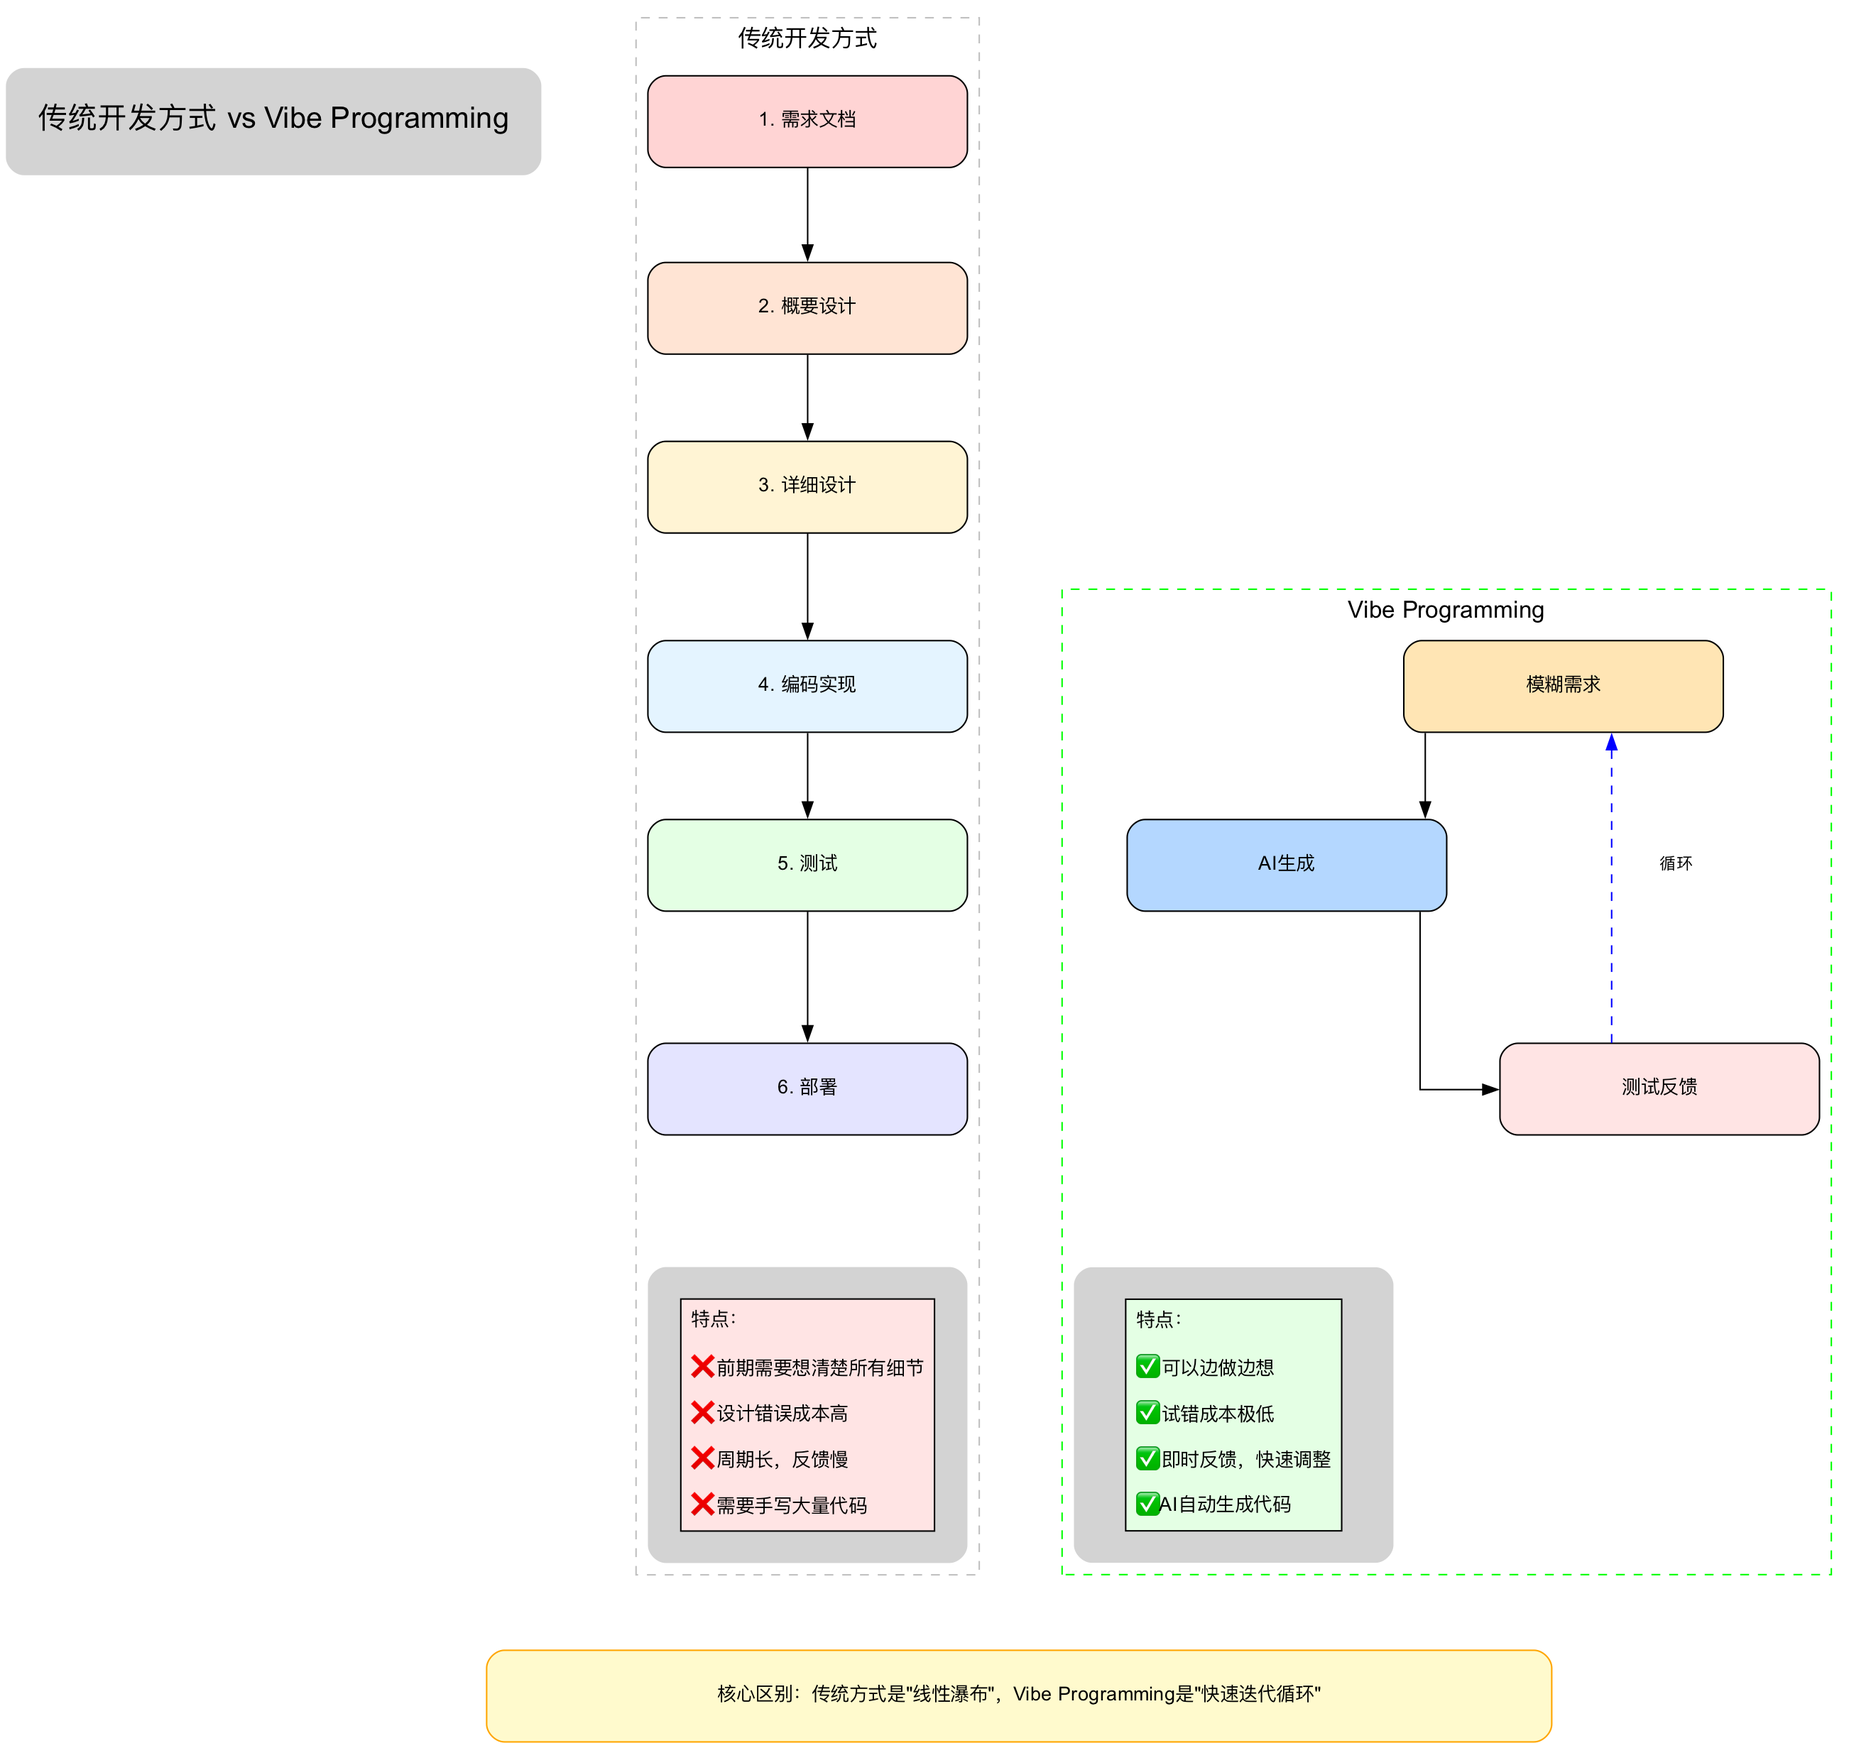
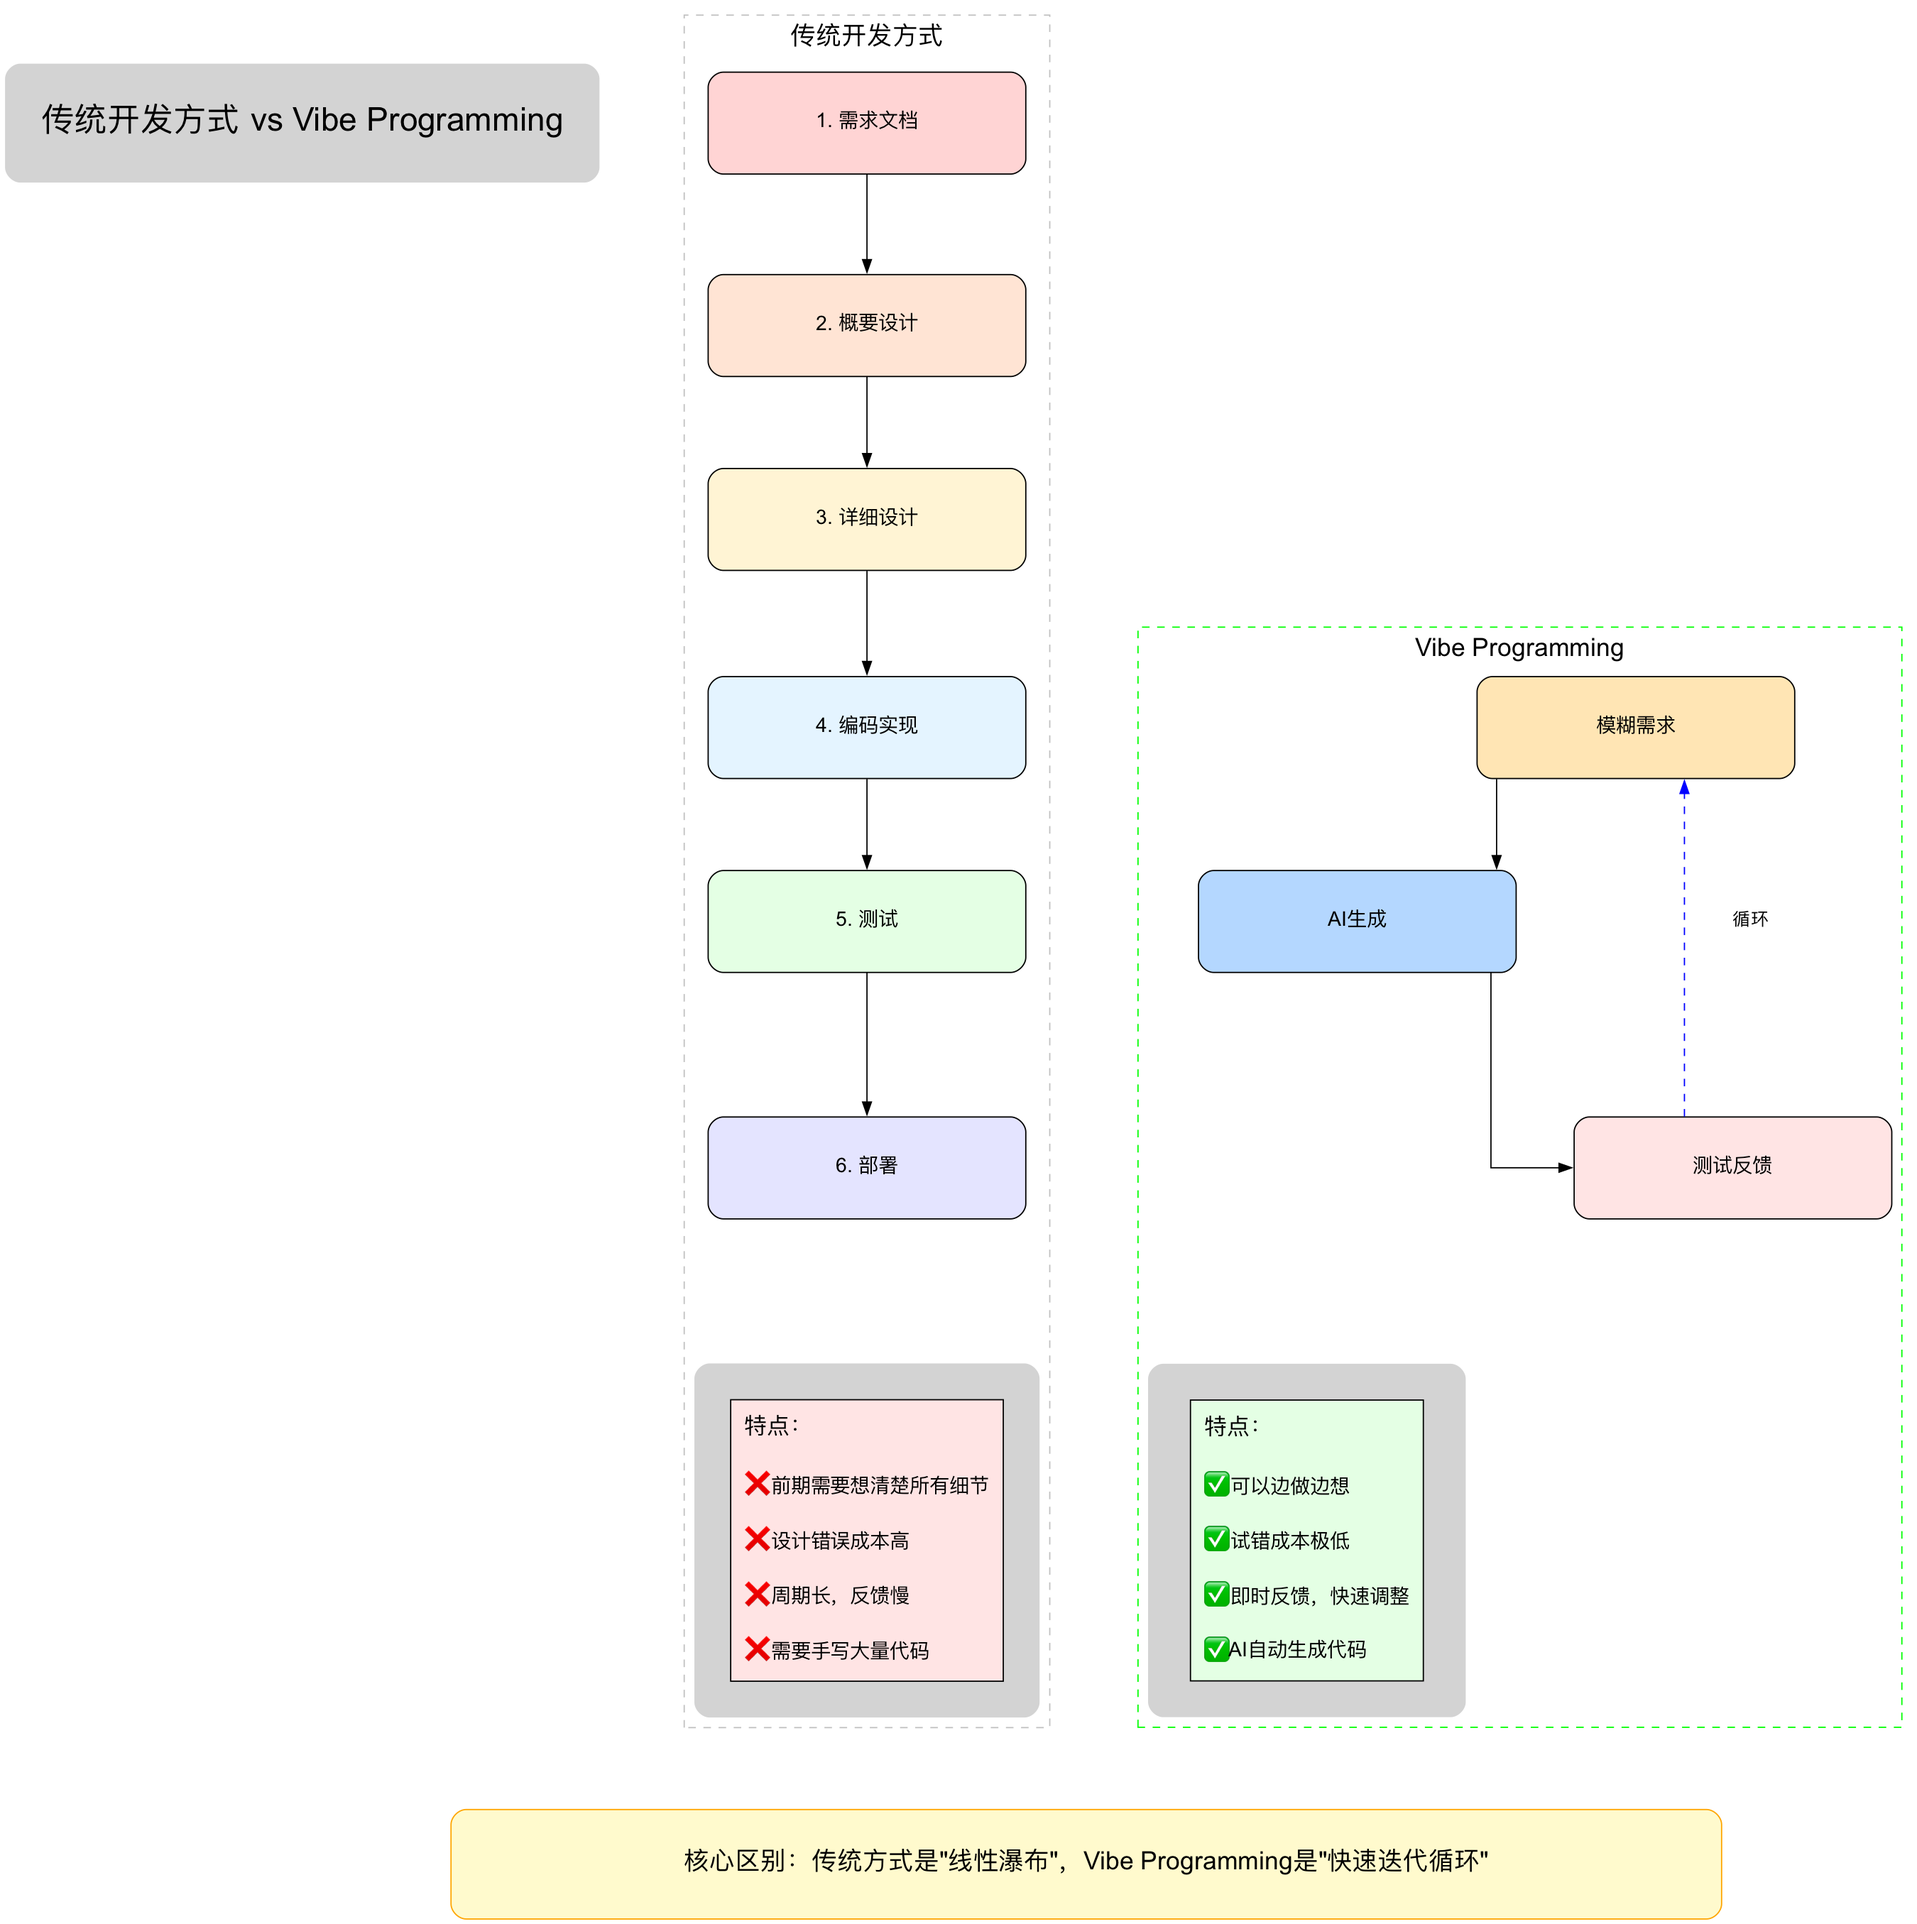
Site updated: 2026-01-25 19:25:43

diff --git a/2024/12/19/使用-Cursor-编程的感想/index.html b/2024/12/19/使用-Cursor-编程的感想/index.html
@@ -30,7 +30,7 @@
 <meta property="og:image" content="http://example.com/2024/12/19/%E4%BD%BF%E7%94%A8-Cursor-%E7%BC%96%E7%A8%8B%E7%9A%84%E6%84%9F%E6%83%B3/vibe-programming-comparison.png">
 <meta property="og:image" content="http://example.com/2024/12/19/%E4%BD%BF%E7%94%A8-Cursor-%E7%BC%96%E7%A8%8B%E7%9A%84%E6%84%9F%E6%83%B3/consolidation-train-flow.png">
 <meta property="article:published_time" content="2024-12-19T04:00:00.000Z">
-<meta property="article:modified_time" content="2026-01-25T10:13:12.139Z">
+<meta property="article:modified_time" content="2026-01-25T11:25:02.190Z">
 <meta property="article:author" content="Zeng Xin">
 <meta property="article:tag" content="Claude">
 <meta property="article:tag" content="AI编程">
@@ -206,6 +206,7 @@
     <link rel="preload" href="/css/dark.css?v=20211217" as="style">
     <link rel="stylesheet" href="/css/dark.css">
     <link rel="stylesheet" href="/css/mobile.css?v=20211217" media="(max-width: 960px)">
+    <link rel="stylesheet" href="/css/custom-diagrams.css">
     <link rel="preload" href="https://cdn.jsdelivr.net/npm/@fancyapps/fancybox@3.5.7/dist/jquery.fancybox.min.css" as="style" onload="this.onload=null;this.rel='stylesheet'">
     <link rel="preload" href="https://cdn.jsdelivr.net/npm/jquery@3.6.0/dist/jquery.min.js" as="script">
     <link rel="preload" href="/scripts/main.js?v=20211217" as="script">
@@ -624,9 +625,13 @@
 </ul>
 <hr>
 <h4 id="可视化流程图"><a href="#可视化流程图" class="headerlink" title="可视化流程图"></a>可视化流程图</h4><p>下面的流程图展示了 Vibe Programming 的完整迭代循环：</p>
+<div class="diagram-container">
 <img src="/2024/12/19/%E4%BD%BF%E7%94%A8-Cursor-%E7%BC%96%E7%A8%8B%E7%9A%84%E6%84%9F%E6%83%B3/vibe-programming-flow.png" class="" title="Vibe Programming 流程图">
+</div>
 
+<div class="diagram-container">
 <img src="/2024/12/19/%E4%BD%BF%E7%94%A8-Cursor-%E7%BC%96%E7%A8%8B%E7%9A%84%E6%84%9F%E6%83%B3/vibe-programming-comparison.png" class="" title="Vibe Programming 对比图">
+</div>
 
 
 <h4 id="进阶想法：Consolidation-Train-模式"><a href="#进阶想法：Consolidation-Train-模式" class="headerlink" title="进阶想法：Consolidation Train 模式"></a>进阶想法：Consolidation Train 模式</h4><p><strong>💡 发散思维</strong></p>
@@ -715,7 +720,9 @@
 </li>
 </ul>
 <p><strong>Consolidation Train 流程示意图</strong></p>
+<div class="diagram-container diagram-wide">
 <img src="/2024/12/19/%E4%BD%BF%E7%94%A8-Cursor-%E7%BC%96%E7%A8%8B%E7%9A%84%E6%84%9F%E6%83%B3/consolidation-train-flow.png" class="" title="Consolidation Train 工作流程">
+</div>
 
 <hr>
 <h3 id="其他待展开内容"><a href="#其他待展开内容" class="headerlink" title="其他待展开内容"></a>其他待展开内容</h3><ul>

diff --git a/css/custom-diagrams.css b/css/custom-diagrams.css
@@ -1,0 +1,56 @@
+/* 自定义流程图样式 - 让图片显示更大更清晰 */
+
+/* 流程图容器 - 突破文章宽度限制 */
+.diagram-container {
+  width: 100%;
+  max-width: 1400px;  /* 比默认文章宽度更大 */
+  margin: 2rem auto;
+  padding: 0;
+  overflow-x: auto;  /* 如果图片太宽，允许横向滚动 */
+}
+
+/* 流程图图片 - 全宽显示 */
+.diagram-container img,
+.article-entry .diagram-large {
+  display: block;
+  width: 100%;
+  max-width: 100%;
+  height: auto;
+  margin: 1.5rem auto;
+  box-shadow: 0 4px 12px 4px rgba(0, 0, 0, 0.15);
+  border-radius: 4px;
+  transition: transform 0.3s ease;
+}
+
+/* 鼠标悬停时轻微放大 */
+.diagram-container img:hover,
+.article-entry .diagram-large:hover {
+  transform: scale(1.02);
+  box-shadow: 0 6px 16px 6px rgba(0, 0, 0, 0.2);
+}
+
+/* 响应式设计 - 移动端 */
+@media (max-width: 768px) {
+  .diagram-container {
+    max-width: 100%;
+    margin: 1rem auto;
+  }
+  
+  .diagram-container img,
+  .article-entry .diagram-large {
+    margin: 1rem auto;
+    box-shadow: 0 2px 8px 2px rgba(0, 0, 0, 0.15);
+  }
+}
+
+/* 针对横向流程图（如 Consolidation Train）的特殊处理 */
+.diagram-wide {
+  width: 100%;
+  max-width: 1600px;  /* 更宽的横向图表 */
+}
+
+/* 图片居中容器 */
+.diagram-center {
+  text-align: center;
+  margin: 2rem 0;
+}

diff --git a/2023/07/20/NQueens-Problem/index.html b/2023/07/20/NQueens-Problem/index.html
@@ -199,6 +199,7 @@
     <link rel="preload" href="/css/dark.css?v=20211217" as="style">
     <link rel="stylesheet" href="/css/dark.css">
     <link rel="stylesheet" href="/css/mobile.css?v=20211217" media="(max-width: 960px)">
+    <link rel="stylesheet" href="/css/custom-diagrams.css">
     <link rel="preload" href="https://cdn.jsdelivr.net/npm/@fancyapps/fancybox@3.5.7/dist/jquery.fancybox.min.css" as="style" onload="this.onload=null;this.rel='stylesheet'">
     <link rel="preload" href="https://cdn.jsdelivr.net/npm/jquery@3.6.0/dist/jquery.min.js" as="script">
     <link rel="preload" href="/scripts/main.js?v=20211217" as="script">

diff --git a/2023/08/30/Clean-Code/index.html b/2023/08/30/Clean-Code/index.html
@@ -201,6 +201,7 @@
     <link rel="preload" href="/css/dark.css?v=20211217" as="style">
     <link rel="stylesheet" href="/css/dark.css">
     <link rel="stylesheet" href="/css/mobile.css?v=20211217" media="(max-width: 960px)">
+    <link rel="stylesheet" href="/css/custom-diagrams.css">
     <link rel="preload" href="https://cdn.jsdelivr.net/npm/@fancyapps/fancybox@3.5.7/dist/jquery.fancybox.min.css" as="style" onload="this.onload=null;this.rel='stylesheet'">
     <link rel="preload" href="https://cdn.jsdelivr.net/npm/jquery@3.6.0/dist/jquery.min.js" as="script">
     <link rel="preload" href="/scripts/main.js?v=20211217" as="script">

diff --git a/about/index.html b/about/index.html
@@ -197,6 +197,7 @@
     <link rel="preload" href="/css/dark.css?v=20211217" as="style">
     <link rel="stylesheet" href="/css/dark.css">
     <link rel="stylesheet" href="/css/mobile.css?v=20211217" media="(max-width: 960px)">
+    <link rel="stylesheet" href="/css/custom-diagrams.css">
     <link rel="preload" href="https://cdn.jsdelivr.net/npm/@fancyapps/fancybox@3.5.7/dist/jquery.fancybox.min.css" as="style" onload="this.onload=null;this.rel='stylesheet'">
     <link rel="preload" href="https://cdn.jsdelivr.net/npm/jquery@3.6.0/dist/jquery.min.js" as="script">
     <link rel="preload" href="/scripts/main.js?v=20211217" as="script">

diff --git a/archives/2023/07/index.html b/archives/2023/07/index.html
@@ -195,6 +195,7 @@
     <link rel="preload" href="/css/dark.css?v=20211217" as="style">
     <link rel="stylesheet" href="/css/dark.css">
     <link rel="stylesheet" href="/css/mobile.css?v=20211217" media="(max-width: 960px)">
+    <link rel="stylesheet" href="/css/custom-diagrams.css">
     <link rel="preload" href="https://cdn.jsdelivr.net/npm/@fancyapps/fancybox@3.5.7/dist/jquery.fancybox.min.css" as="style" onload="this.onload=null;this.rel='stylesheet'">
     <link rel="preload" href="https://cdn.jsdelivr.net/npm/jquery@3.6.0/dist/jquery.min.js" as="script">
     <link rel="preload" href="/scripts/main.js?v=20211217" as="script">

diff --git a/archives/2023/08/index.html b/archives/2023/08/index.html
@@ -195,6 +195,7 @@
     <link rel="preload" href="/css/dark.css?v=20211217" as="style">
     <link rel="stylesheet" href="/css/dark.css">
     <link rel="stylesheet" href="/css/mobile.css?v=20211217" media="(max-width: 960px)">
+    <link rel="stylesheet" href="/css/custom-diagrams.css">
     <link rel="preload" href="https://cdn.jsdelivr.net/npm/@fancyapps/fancybox@3.5.7/dist/jquery.fancybox.min.css" as="style" onload="this.onload=null;this.rel='stylesheet'">
     <link rel="preload" href="https://cdn.jsdelivr.net/npm/jquery@3.6.0/dist/jquery.min.js" as="script">
     <link rel="preload" href="/scripts/main.js?v=20211217" as="script">

diff --git a/archives/2023/index.html b/archives/2023/index.html
@@ -195,6 +195,7 @@
     <link rel="preload" href="/css/dark.css?v=20211217" as="style">
     <link rel="stylesheet" href="/css/dark.css">
     <link rel="stylesheet" href="/css/mobile.css?v=20211217" media="(max-width: 960px)">
+    <link rel="stylesheet" href="/css/custom-diagrams.css">
     <link rel="preload" href="https://cdn.jsdelivr.net/npm/@fancyapps/fancybox@3.5.7/dist/jquery.fancybox.min.css" as="style" onload="this.onload=null;this.rel='stylesheet'">
     <link rel="preload" href="https://cdn.jsdelivr.net/npm/jquery@3.6.0/dist/jquery.min.js" as="script">
     <link rel="preload" href="/scripts/main.js?v=20211217" as="script">

diff --git a/archives/2024/12/index.html b/archives/2024/12/index.html
@@ -195,6 +195,7 @@
     <link rel="preload" href="/css/dark.css?v=20211217" as="style">
     <link rel="stylesheet" href="/css/dark.css">
     <link rel="stylesheet" href="/css/mobile.css?v=20211217" media="(max-width: 960px)">
+    <link rel="stylesheet" href="/css/custom-diagrams.css">
     <link rel="preload" href="https://cdn.jsdelivr.net/npm/@fancyapps/fancybox@3.5.7/dist/jquery.fancybox.min.css" as="style" onload="this.onload=null;this.rel='stylesheet'">
     <link rel="preload" href="https://cdn.jsdelivr.net/npm/jquery@3.6.0/dist/jquery.min.js" as="script">
     <link rel="preload" href="/scripts/main.js?v=20211217" as="script">

diff --git a/archives/2024/index.html b/archives/2024/index.html
@@ -195,6 +195,7 @@
     <link rel="preload" href="/css/dark.css?v=20211217" as="style">
     <link rel="stylesheet" href="/css/dark.css">
     <link rel="stylesheet" href="/css/mobile.css?v=20211217" media="(max-width: 960px)">
+    <link rel="stylesheet" href="/css/custom-diagrams.css">
     <link rel="preload" href="https://cdn.jsdelivr.net/npm/@fancyapps/fancybox@3.5.7/dist/jquery.fancybox.min.css" as="style" onload="this.onload=null;this.rel='stylesheet'">
     <link rel="preload" href="https://cdn.jsdelivr.net/npm/jquery@3.6.0/dist/jquery.min.js" as="script">
     <link rel="preload" href="/scripts/main.js?v=20211217" as="script">

diff --git a/archives/index.html b/archives/index.html
@@ -195,6 +195,7 @@
     <link rel="preload" href="/css/dark.css?v=20211217" as="style">
     <link rel="stylesheet" href="/css/dark.css">
     <link rel="stylesheet" href="/css/mobile.css?v=20211217" media="(max-width: 960px)">
+    <link rel="stylesheet" href="/css/custom-diagrams.css">
     <link rel="preload" href="https://cdn.jsdelivr.net/npm/@fancyapps/fancybox@3.5.7/dist/jquery.fancybox.min.css" as="style" onload="this.onload=null;this.rel='stylesheet'">
     <link rel="preload" href="https://cdn.jsdelivr.net/npm/jquery@3.6.0/dist/jquery.min.js" as="script">
     <link rel="preload" href="/scripts/main.js?v=20211217" as="script">

diff --git a/index.html b/index.html
@@ -195,6 +195,7 @@
     <link rel="preload" href="/css/dark.css?v=20211217" as="style">
     <link rel="stylesheet" href="/css/dark.css">
     <link rel="stylesheet" href="/css/mobile.css?v=20211217" media="(max-width: 960px)">
+    <link rel="stylesheet" href="/css/custom-diagrams.css">
     <link rel="preload" href="https://cdn.jsdelivr.net/npm/@fancyapps/fancybox@3.5.7/dist/jquery.fancybox.min.css" as="style" onload="this.onload=null;this.rel='stylesheet'">
     <link rel="preload" href="https://cdn.jsdelivr.net/npm/jquery@3.6.0/dist/jquery.min.js" as="script">
     <link rel="preload" href="/scripts/main.js?v=20211217" as="script">
